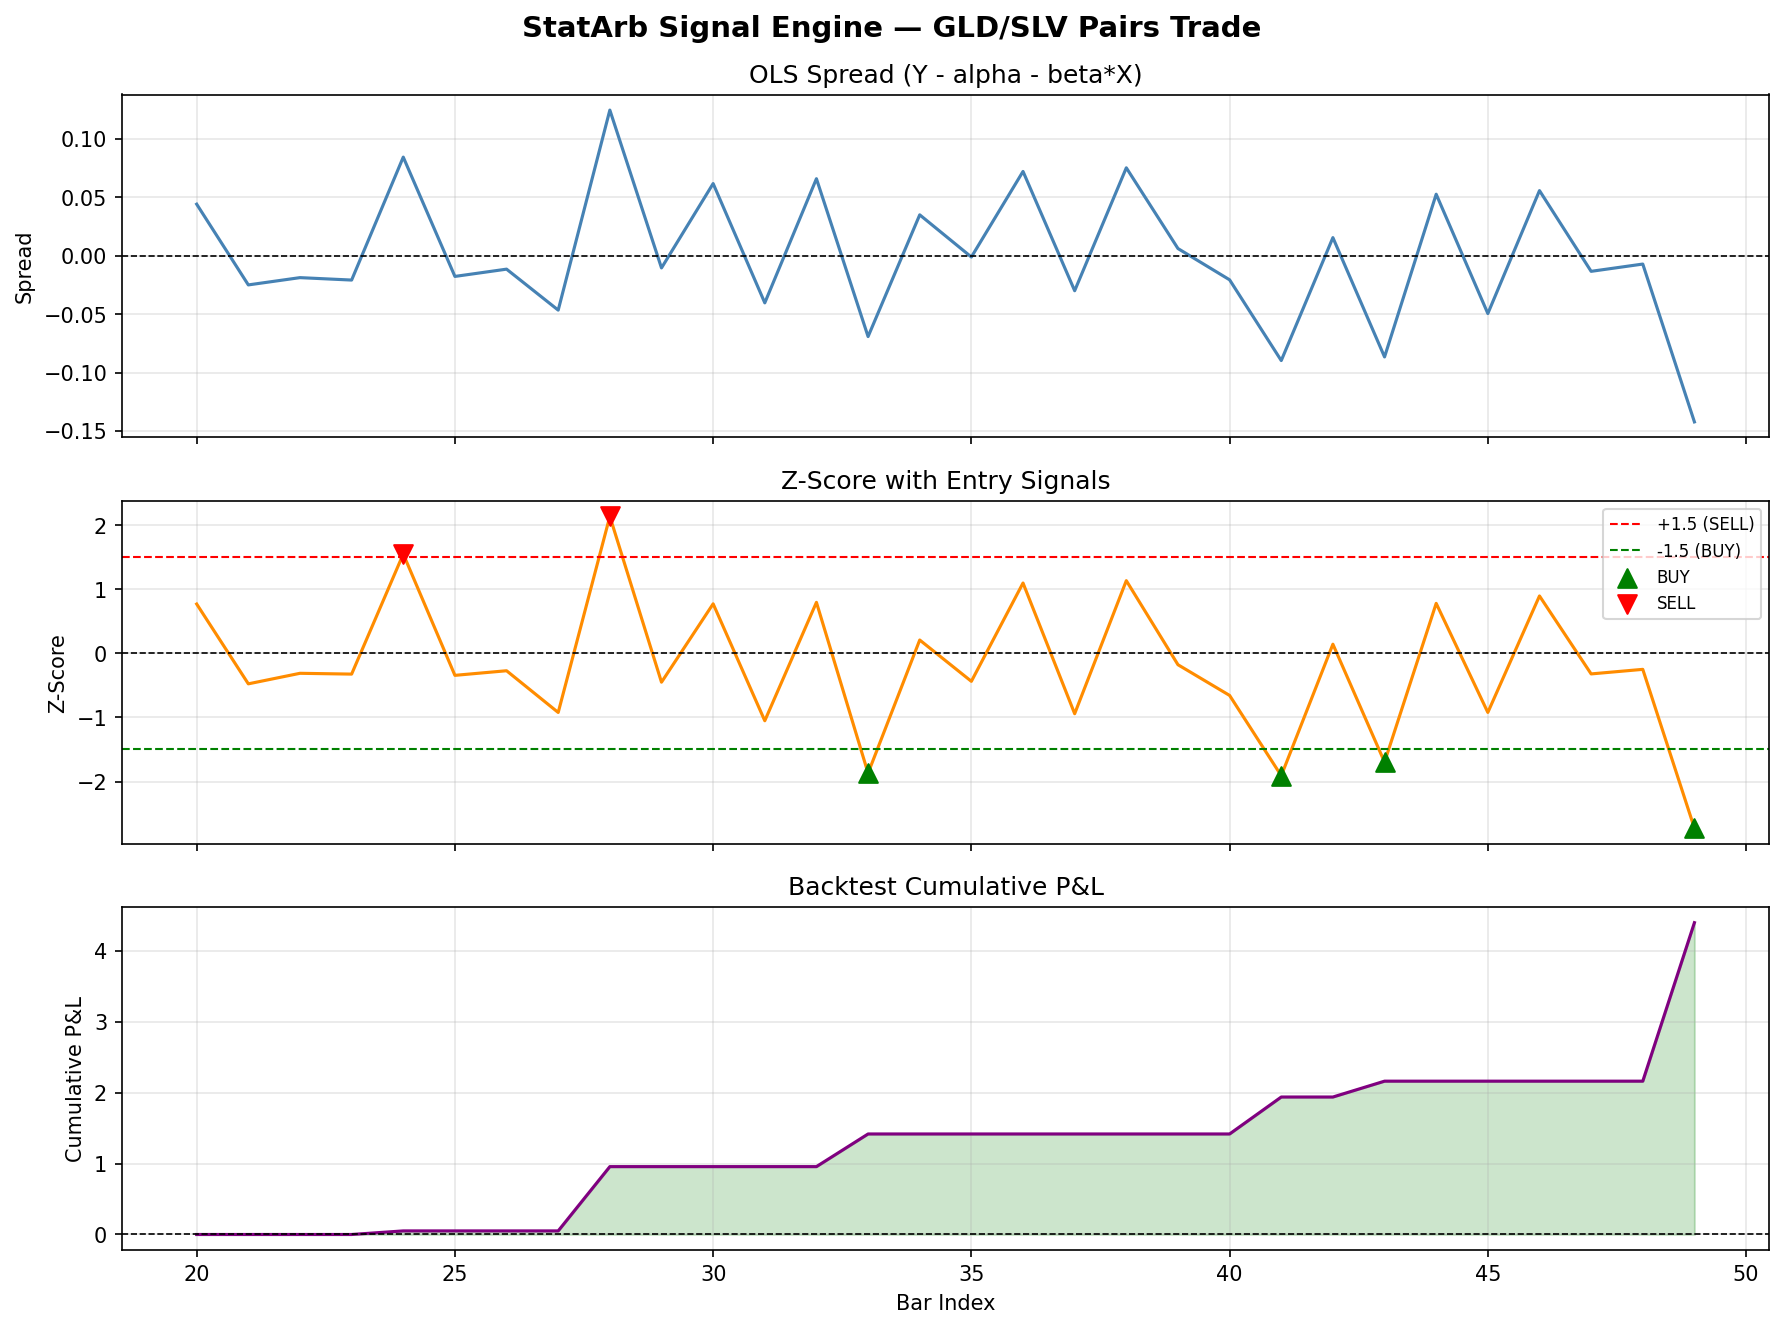
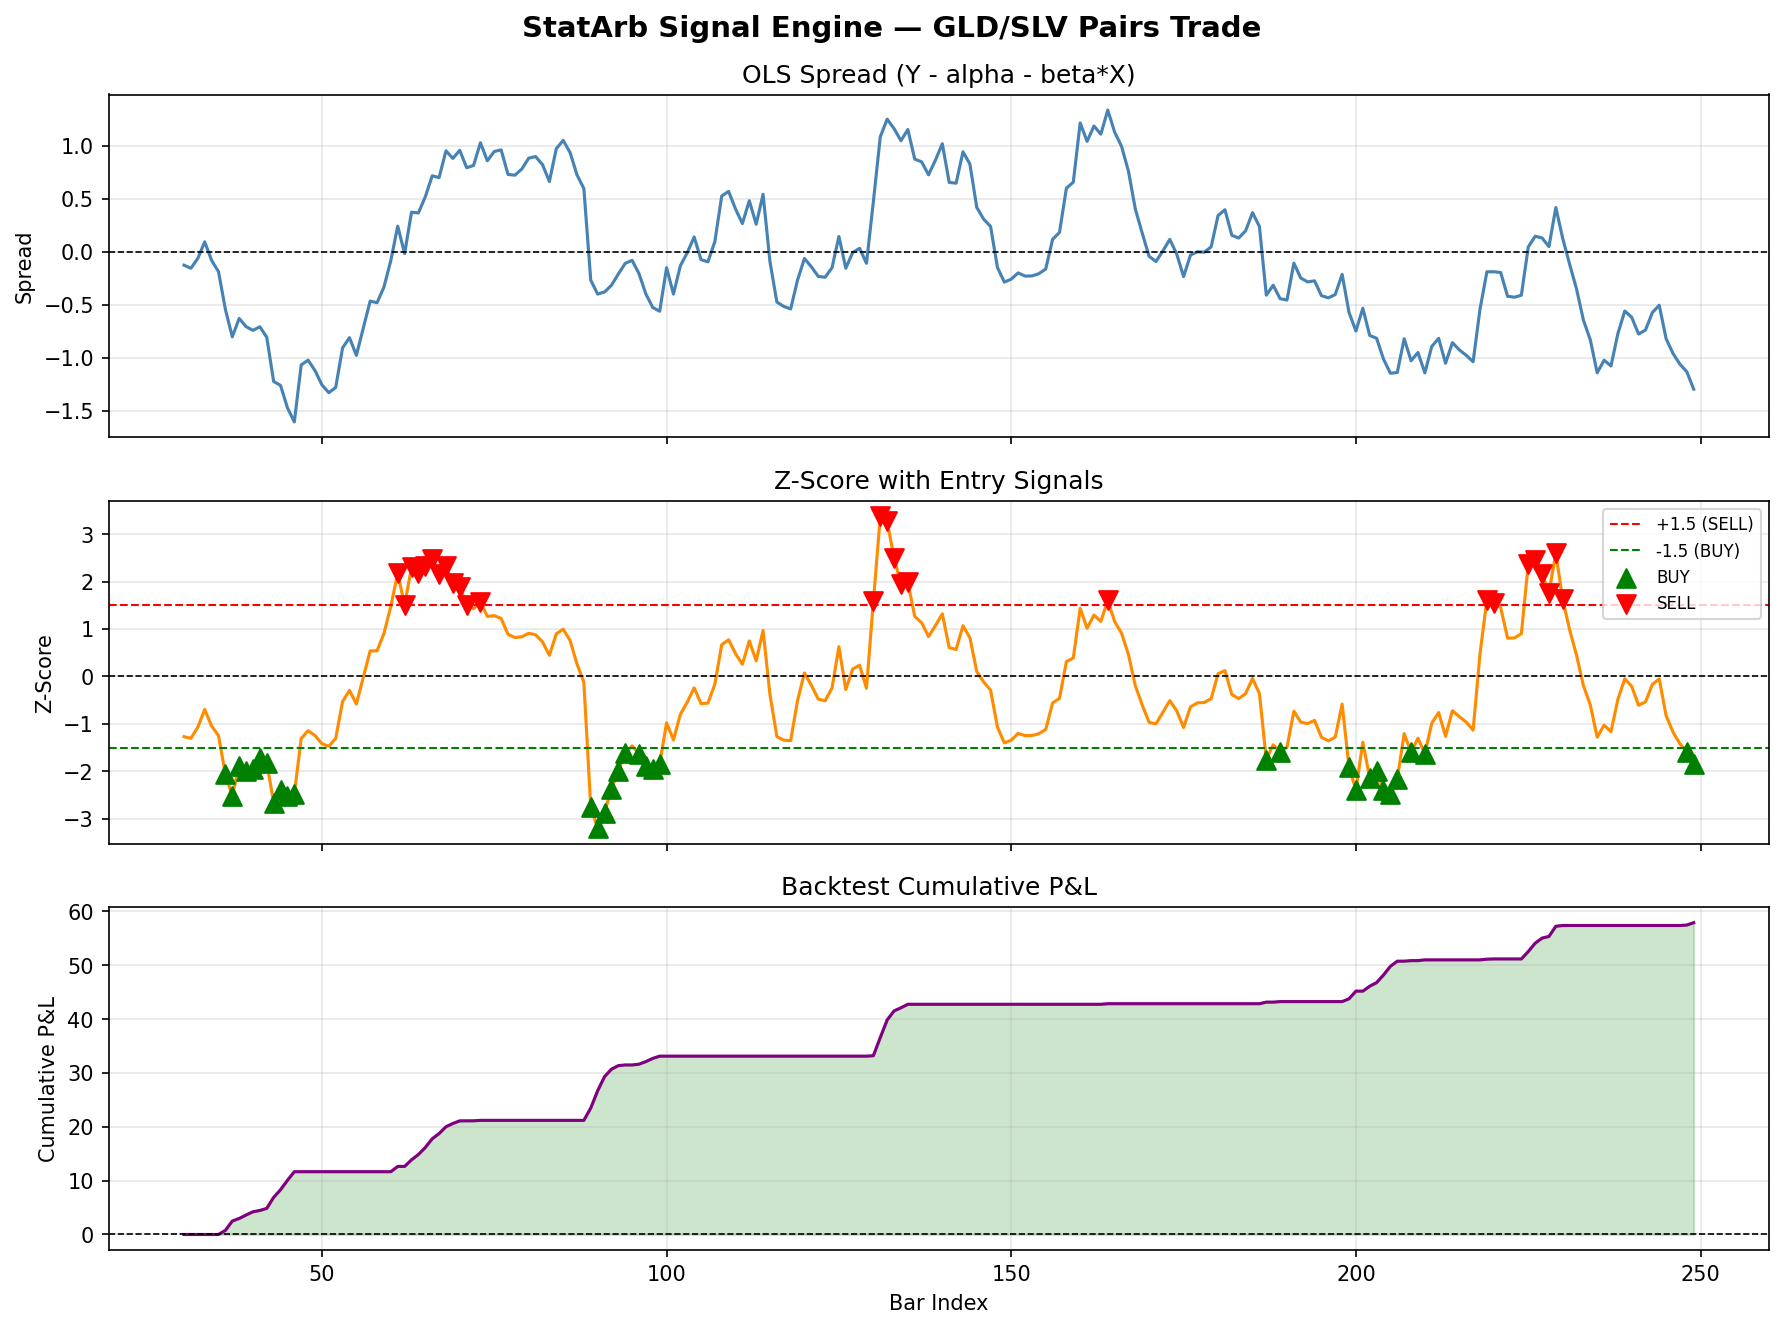
Integrate real GLD/SLV market data via yfinance — 220 signals generated

diff --git a/python/fetch_data.py b/python/fetch_data.py
@@ -1,0 +1,26 @@
+import yfinance as yf
+import pandas as pd
+import os
+
+# ── Download GLD and SLV historical data ──
+print("Downloading GLD and SLV data from Yahoo Finance...")
+
+data = yf.download(["GLD", "SLV"], start="2023-01-01", end="2024-01-01",
+                   auto_adjust=True, progress=False)
+
+# Extract closing prices for each ticker
+gld_close = data["Close"]["GLD"].dropna()
+slv_close = data["Close"]["SLV"].dropna()
+
+# Align on common dates
+df = pd.DataFrame({"GLD": gld_close, "SLV": slv_close}).dropna()
+
+print(f"Downloaded {len(df)} trading days")
+print(f"Date range: {df.index[0].date()} to {df.index[-1].date()}")
+print(f"\nGLD price range: ${df['GLD'].min():.2f} - ${df['GLD'].max():.2f}")
+print(f"SLV price range: ${df['SLV'].min():.2f} - ${df['SLV'].max():.2f}")
+
+# ── Save to CSV for OCaml engine ──
+out_path = os.path.join(os.path.dirname(__file__), '..', 'data', 'prices.csv')
+df.to_csv(out_path)
+print(f"\nPrices saved to {out_path}")